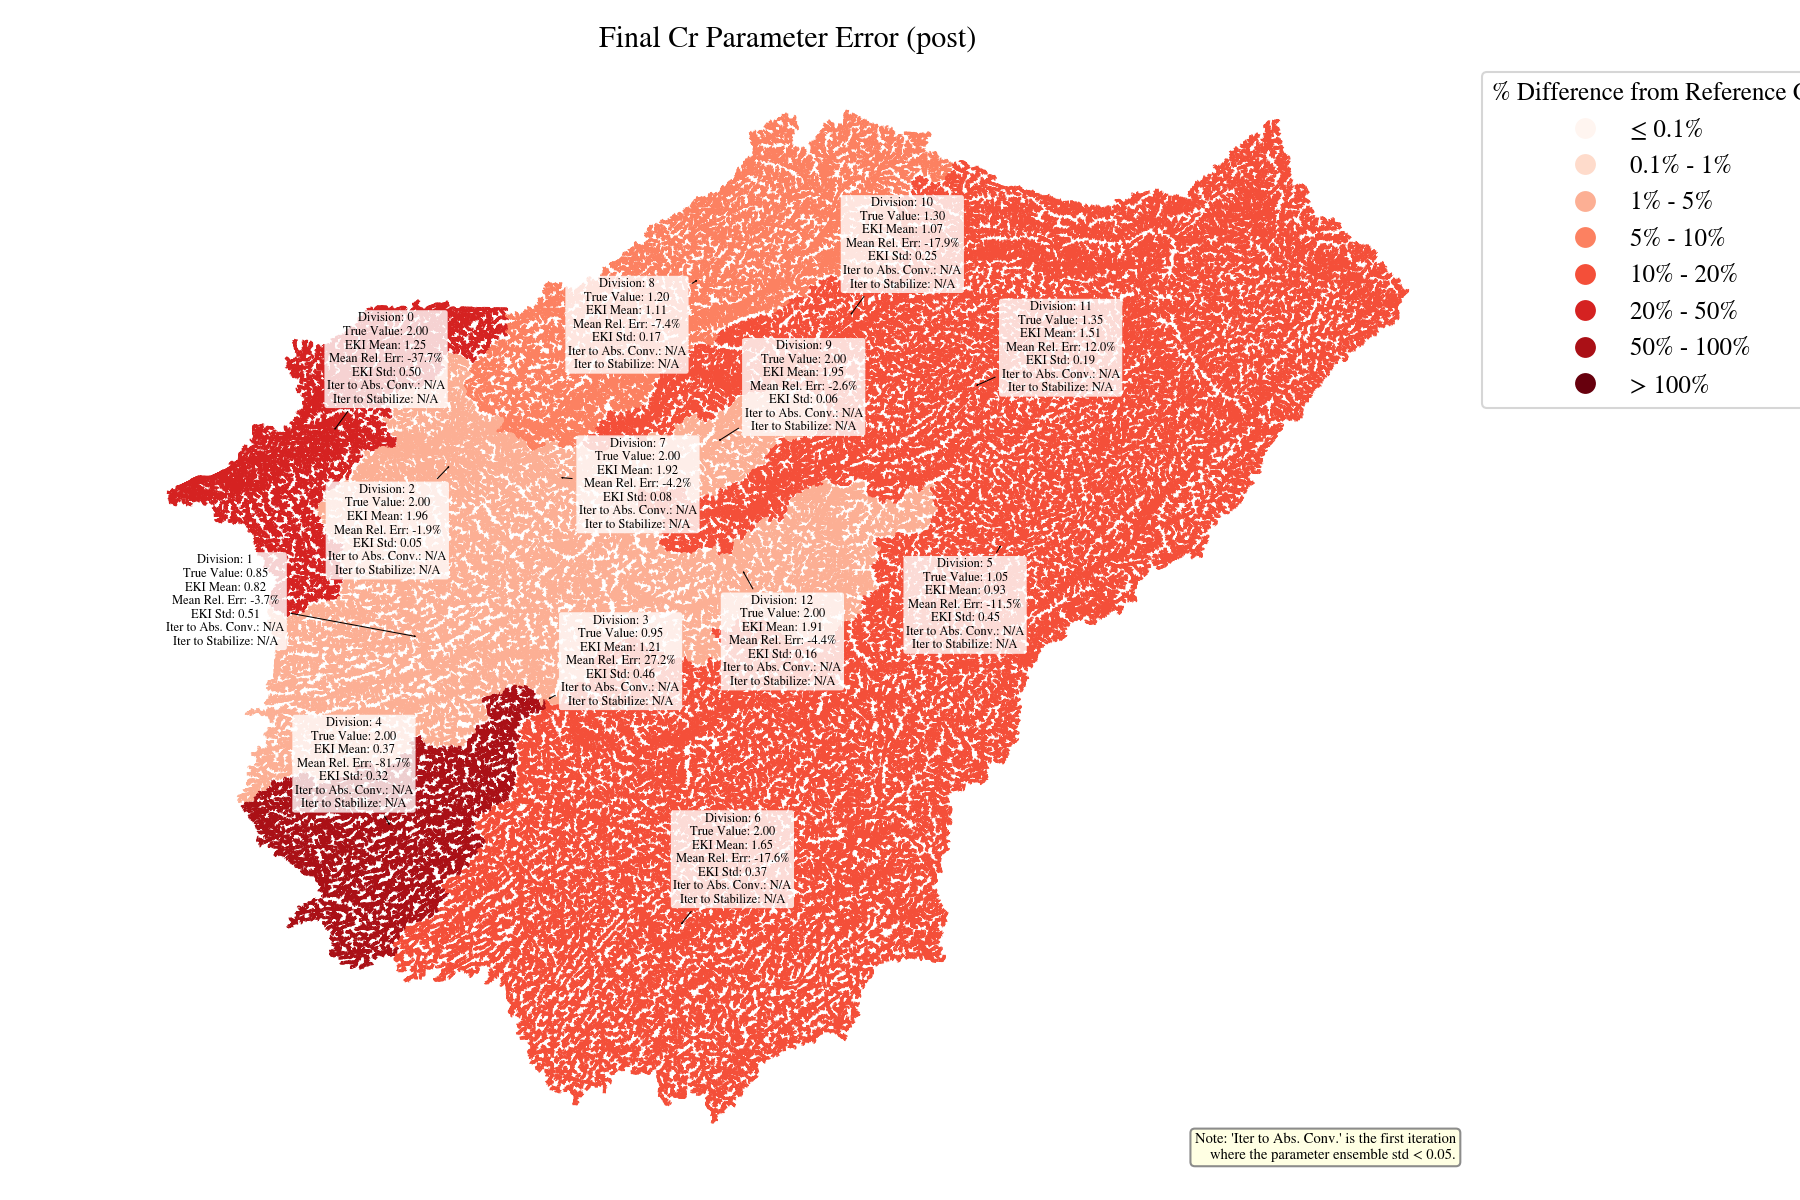
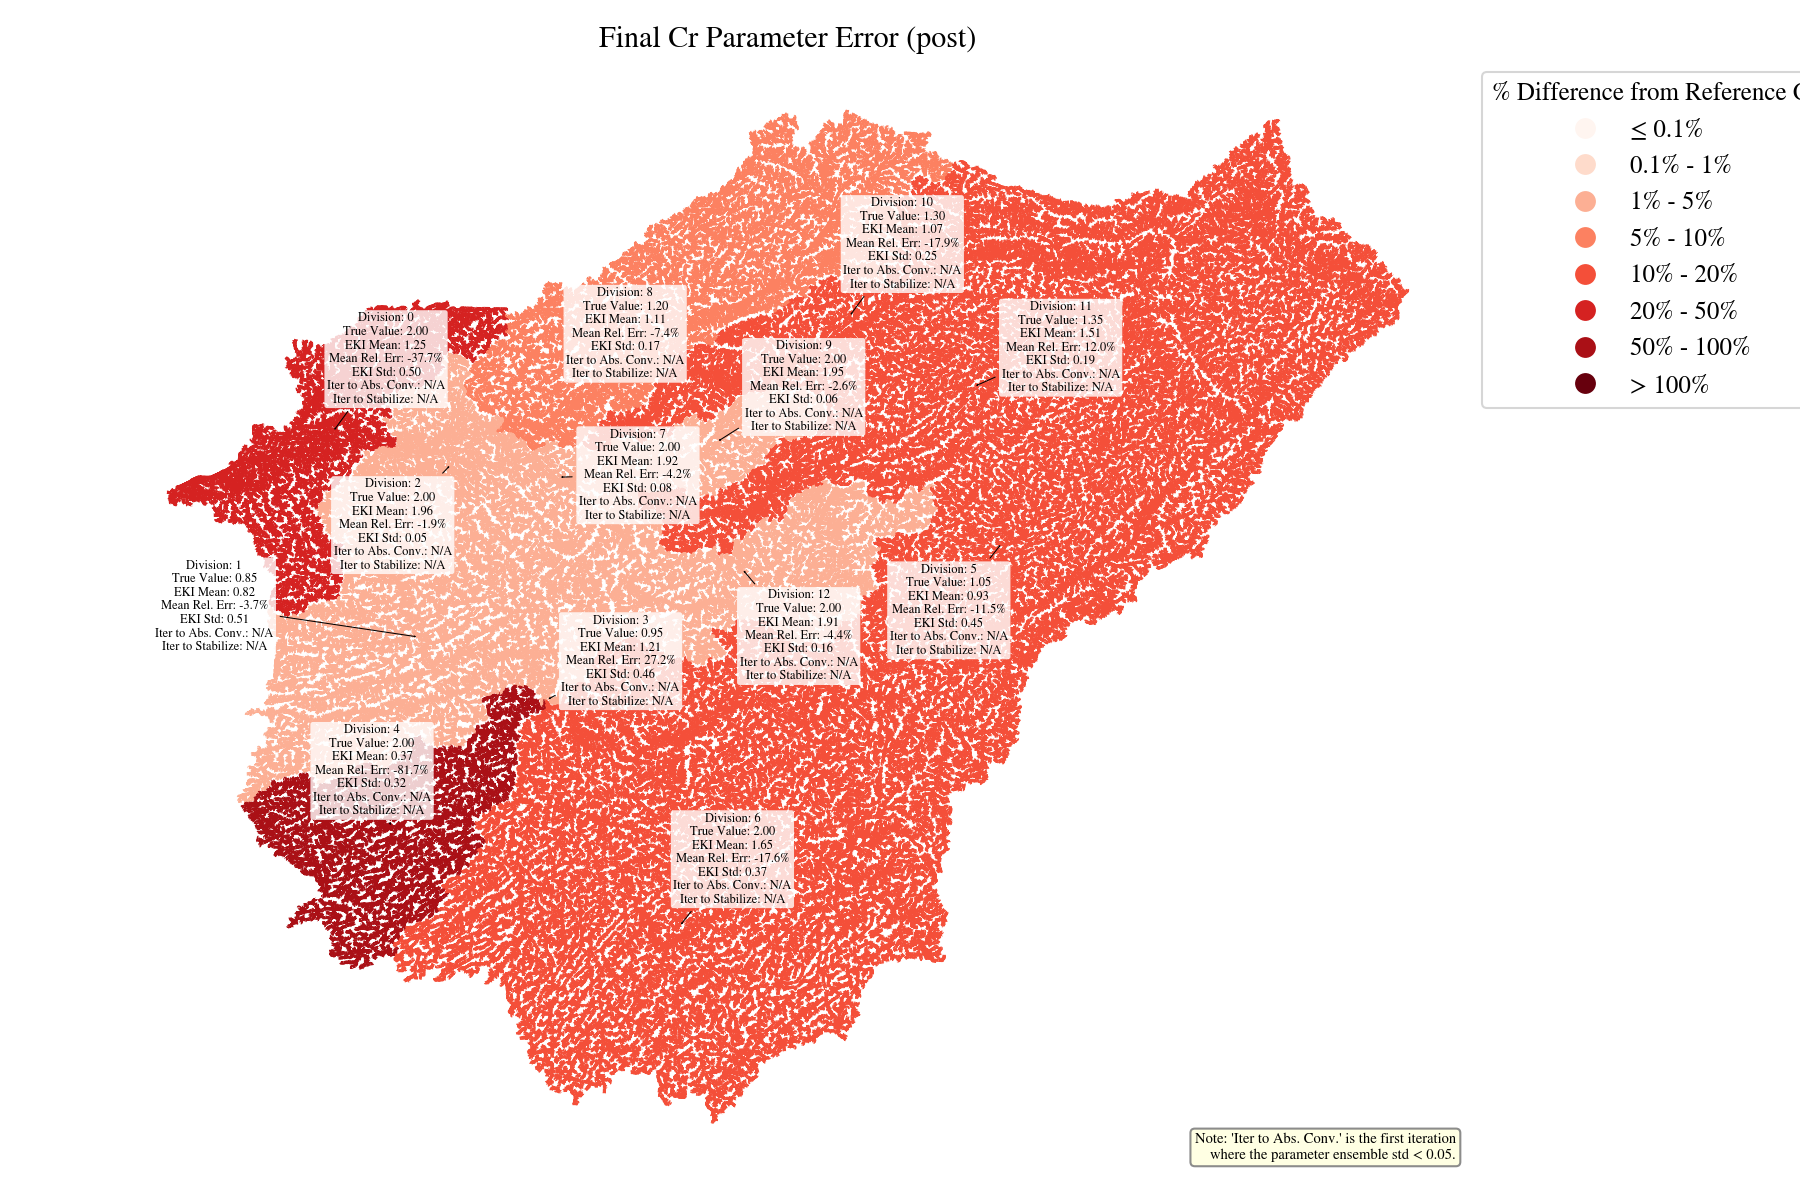
updated readme

diff --git a/README.md b/README.md
@@ -36,7 +36,7 @@ This project provides a scientific computing framework for hydrological data ass
     *   To **only** regenerate visualizations from a completed experiment's output, set `VISUALIZE_ONLY` to `true`.
     ```bash
     cd Inverse_Problem
-    ./main.sh
+    bash main.sh
     ```
     Alternatively, you can run `eki_test.py` directly and control the behavior with a command-line flag:
     ```bash
